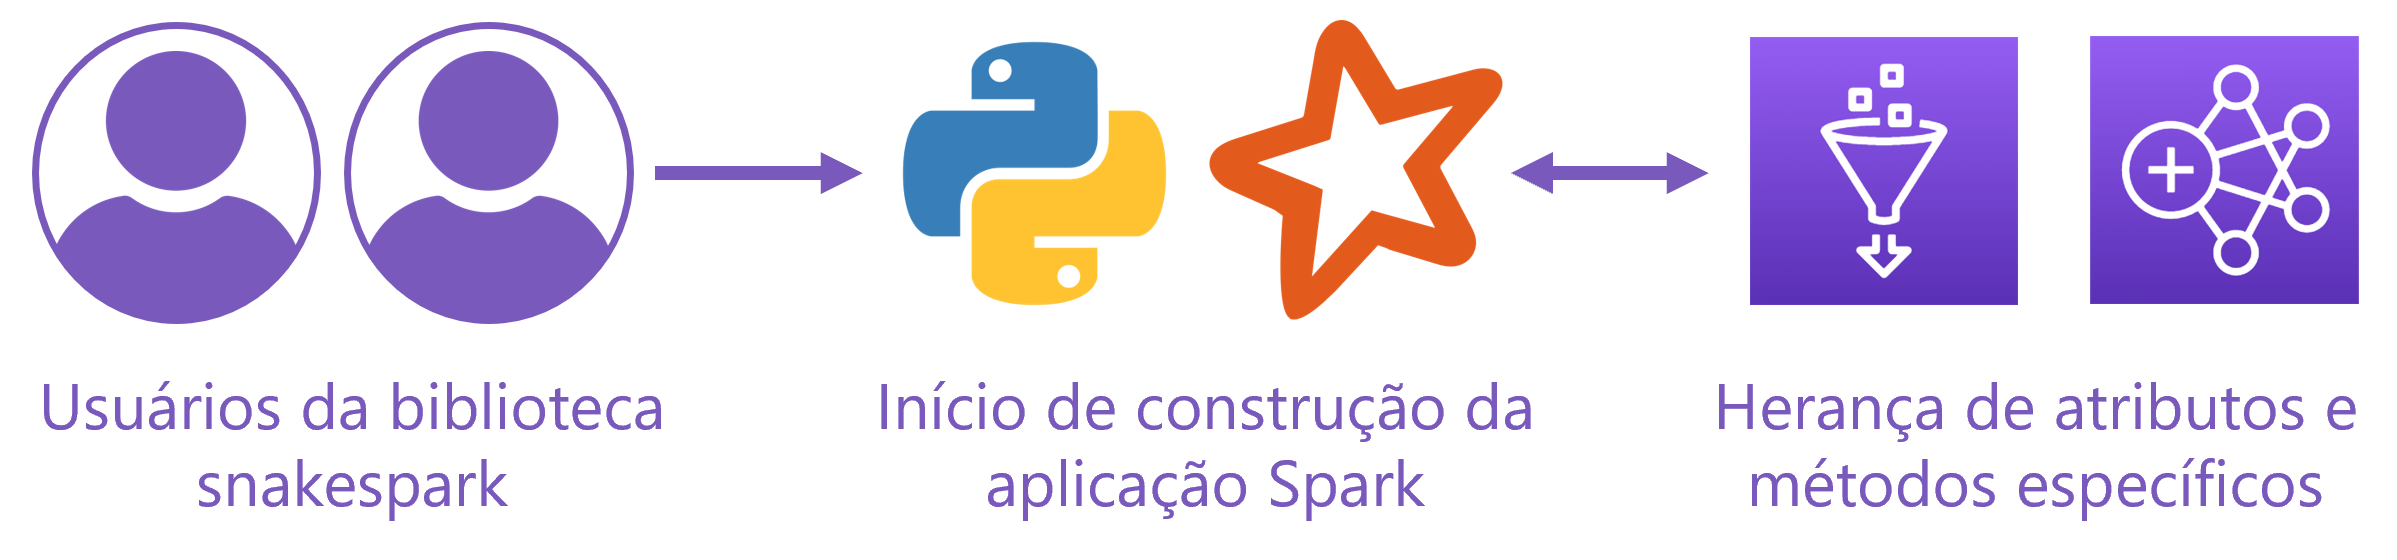
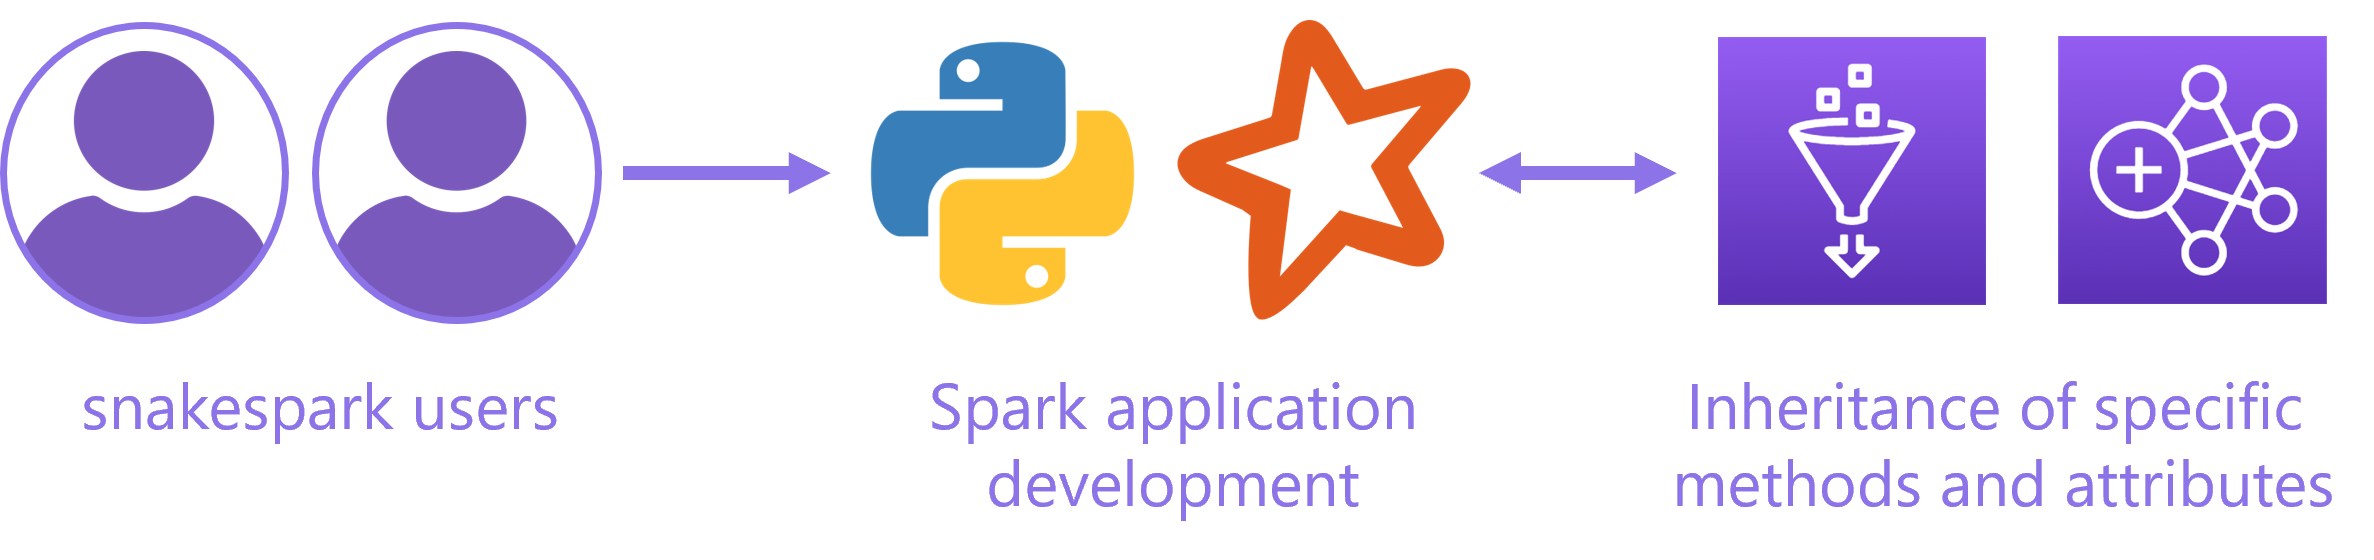
docs: changing language on lib structure page (#12)

diff --git a/docs/mkdocs/features/lib-structure.md b/docs/mkdocs/features/lib-structure.md
@@ -1,0 +1,58 @@
+# Library Structure
+
+To understand a little bit more about *sparksnake* under the hood and all its advantages, this section will cover details about the library construction construction and the relationship between its modules and classes.
+
+## A Special Way to Enhance ETL Jobs
+
+At first, it is important to mention that the main point of interaction between users and the *sparksnake* library takes place through the class `SparkETLManager` set in the module `manager`.
+
+It means that it's through this class that users will be able to acquire a series of already coded Spark features and specific methods that are intended to help to reduce the "hard part" of using AWS services like Glue and EMR.
+
+???+ question "But how does this happen in practice?"
+    Essentially, when users initialize an object of class `SparkETLManager`, they must pass an attributed called `mode`. Such attribute has the responsibility to "configure" the class according to the target service claimed to be used in the definition of their Spark application to be deployed.
+    
+    In other words, the *sparksnake* library will be able to provide special features for users even if they are building a Spark application to run on Glue, on EMR or even locally. Just set up a `mode` on `SparkETLManager` class and start building!
+
+    In technical terms, it is through the "operation mode" passed by the user on `mode` attribute that the class can inherit functionality from other classes in the library. For example, if the user instancies an object of the class `SparkETLManager` with `mode="glue"`, then all attributes and methods of the class `GlueJobManager` on module `glue` will be inherited to provide a custom Spark usage experience within the specifics of the Glue service.
+
+In visual terms, the library usage journey can be simplified in the three steps below:
+
+![](https://raw.githubusercontent.com/ThiagoPanini/sparksnake/main/docs/assets/imgs/sparksnake-draw.png)
+
+To illustrate all this with practical coding (I know you like it), the snippet below shows how the `SparkETLManager` class can be used to centralize the use of Spark across different AWS services:
+
+???+ example "Using SparkETLManager class as central point of Spark application development"
+
+    ```python
+    # Importing libraries
+    from sparksnake.manager import SparkETLManager
+
+    # Initializing class for building Spark applications on Glue
+    spark_manager = SparkETLManager(mode="glue", **kwargs)
+
+    # OR on EMR
+    spark_manager = SparkETLManager(mode="emr", **kwargs)
+
+    # OR even locally
+    spark_manager = SparkETLManager(mode="local")
+    ```
+
+    Here, `**kwargs` argument represents addicional arguments that will be eventually needed according to each class service inherited.
+
+If anything still seems complex up here, no worries! There will be a special section full of practical examples and video demonstrations for making everything as clear as possible!
+
+## Library Modules and Classes
+
+Now that you have a basic knowledge about the features of *sparksnake* library, the table below will help you even more to clarify all classes and modules available up to now.
+
+| **Python Class Available** | **Module** | **Description** |
+| :-- | :-- | :-- |
+| `SparkETLManager` | `manager` | Central point of interaction with users. Inherits attributes and features from other classes according to the configured mode of operation |
+| `GlueJobManager` | `glue` | 	Centralizes specific attributes and methods to be used within AWS Glue |
+| `EMRJobManager` | `emr` | :hammer_and_wrench: *Work in progress* |
+
+## Usage Demos
+
+Examples and demos will be divided in different sections according to target AWS service chosen for *sparksnake* usage. Up to now, the following scenarios are available:
+
+- :material-alert-decagram:{ .mdx-pulse .warning } [Enhancing and optimizing the development of Glue jobs](exemplos-glue.md)
